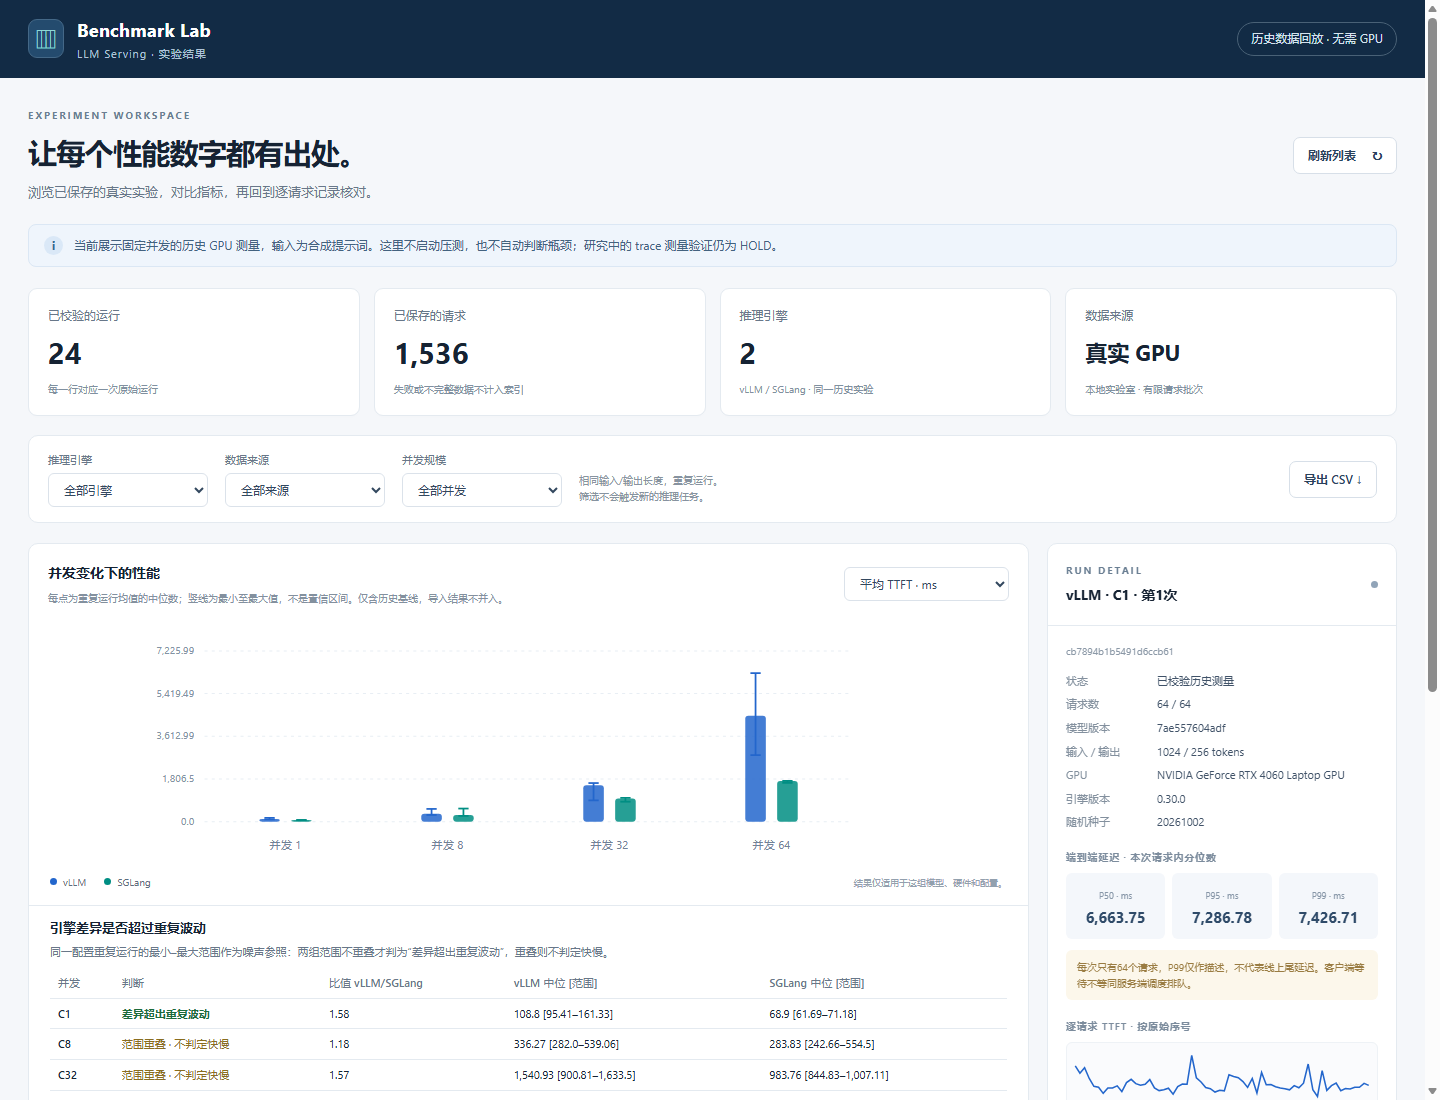
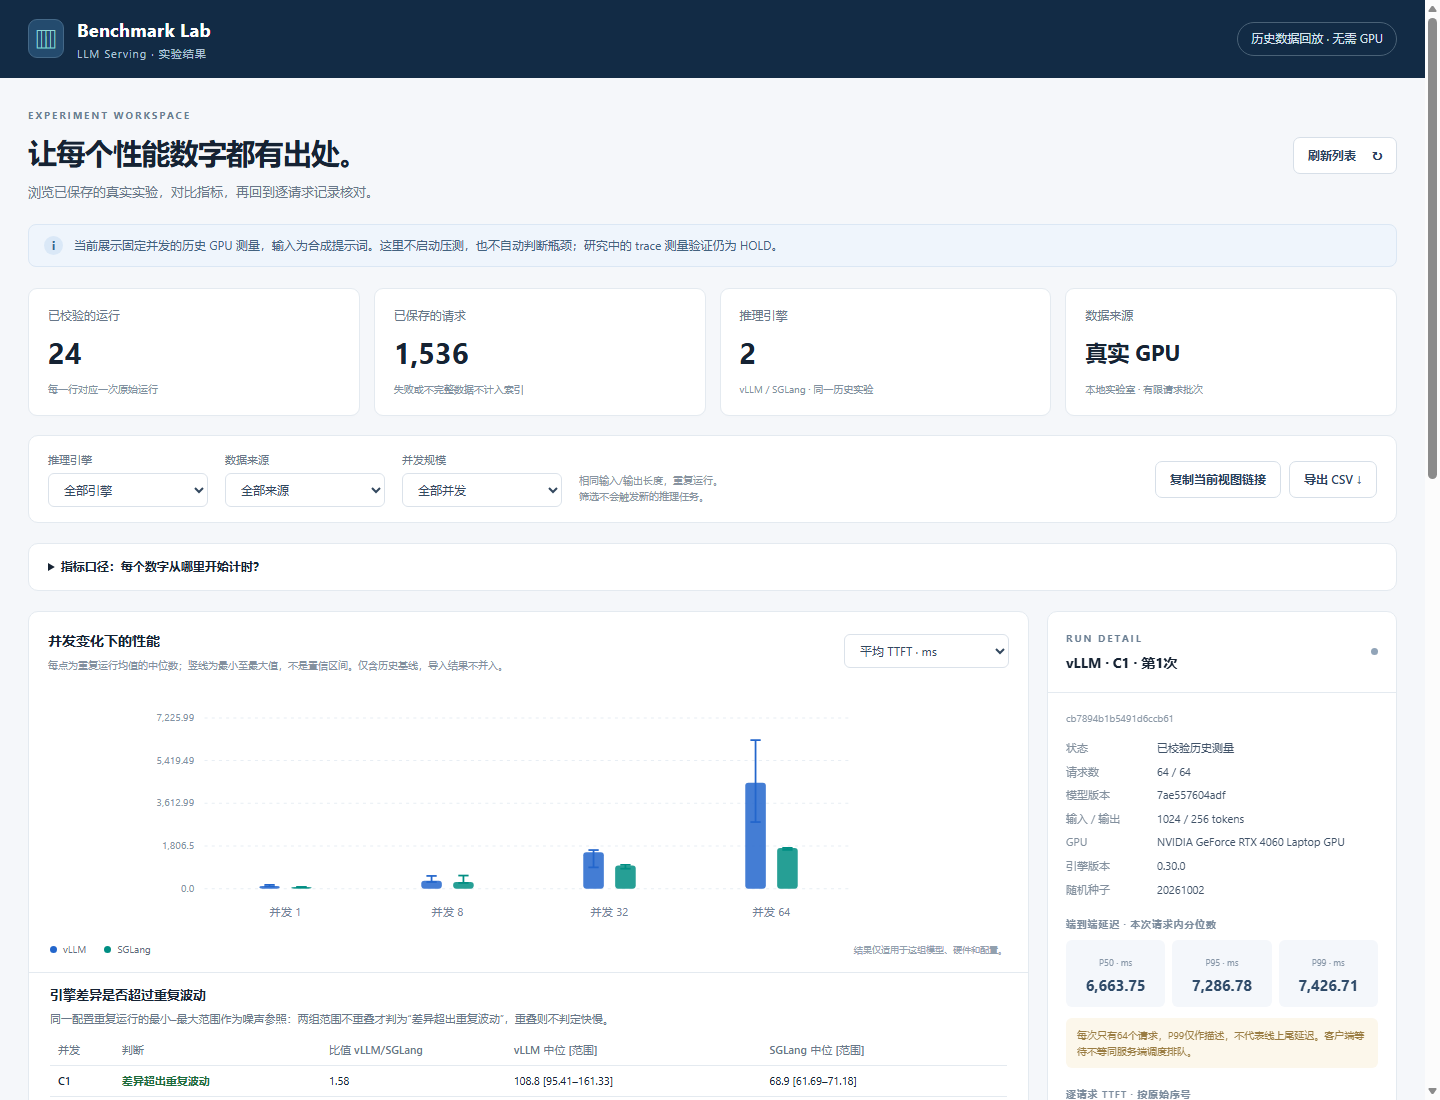
Add request timeline, shareable view links and metric definitions
- Request timeline: every request drawn as client wait (arrival to
  dispatch), wait for first token, and generation, on the vLLM bench
  dispatch clock (start_time = dispatch after the client semaphore;
  ttft/latency from dispatch; client_queue_time = dispatch - arrival,
  per vllm/benchmarks/lib/endpoint_request_func.py and serve.py).
  An in-flight step curve shows peak concurrency against the client
  limit; exceeding it is reported, not hidden. All 24 real runs peak
  exactly at their configured max_concurrency.
- Shareable view: filters, chart metric and selected run are kept in
  the query string; "copy current view link" button.
- Metric definitions panel citing the vLLM source for each metric.

Tests: timeline unit tests (dispatch clock, slot release ordering,
over-limit reporting, rate-limited runs); API asserts timeline fields;
browser E2E 13/13 incl. timeline peak and URL restore. Windows and
WSL: 36 + 6 tests OK, real-data check PASS.

diff --git a/web/app.js b/web/app.js
@@ -55,6 +55,30 @@ function renderTable(){
   }
   $('table-count').textContent=runs.length;
 }
+// Gantt of request phases plus the in-flight step curve; client-side clock only.
+function renderTimeline(r){
+  const panel=$('timeline-panel'),rows=r.request_timing;
+  if(!rows||rows[0].dispatch_ms===undefined){panel.hidden=true;return;}
+  panel.hidden=false;$('timeline-title').textContent=runTitle(r);
+  const t=r.timeline,span=t.span_ms||1,W=1000,left=46,right=12,top=8,curveH=64,gap=14,rowH=Math.max(3,Math.min(8,320/rows.length));
+  const H=top+curveH+gap+rows.length*rowH+24,x=v=>left+(W-left-right)*v/span,g=svg('svg',{viewBox:`0 0 ${W} ${H}`,role:'img','aria-label':`${rows.length}个请求的阶段时间线`});
+  const events=rows.flatMap(q=>[[q.dispatch_ms,1],[q.end_ms,-1]]).sort((a,b)=>a[0]-b[0]||a[1]-b[1]);
+  const cap=Math.max(t.peak_in_flight,t.max_concurrency||0,1),y=v=>top+curveH-curveH*v/cap;let n=0,pts=[`${x(0)},${y(0)}`];
+  for(const[time,change]of events){pts.push(`${x(time)},${y(n)}`);n+=change;pts.push(`${x(time)},${y(n)}`);}
+  g.append(svg('line',{x1:left,x2:W-right,y1:y(0),y2:y(0),stroke:'#e8eef4'}));
+  if(t.max_concurrency){g.append(svg('line',{x1:left,x2:W-right,y1:y(t.max_concurrency),y2:y(t.max_concurrency),stroke:'#9aa8b6','stroke-dasharray':'4 4'}));g.append(svg('text',{x:left-6,y:y(t.max_concurrency)+3,'text-anchor':'end',fill:'#8393a5','font-size':10},String(t.max_concurrency)));}
+  g.append(svg('polyline',{points:pts.join(' '),fill:'none',stroke:colors[r.engine],'stroke-width':1.6}));
+  g.append(svg('text',{x:left-6,y:y(0)+3,'text-anchor':'end',fill:'#8393a5','font-size':10},'0'));
+  const ordered=[...rows].sort((a,b)=>a.arrival_ms-b.arrival_ms||a.index-b.index),y0=top+curveH+gap;
+  ordered.forEach((q,i)=>{const row=svg('g'),yy=y0+i*rowH,h=Math.max(1.5,rowH-1);
+    for(const[a,b,c]of[[q.arrival_ms,q.dispatch_ms,'#c9d2dc'],[q.dispatch_ms,q.first_token_ms,'#e0a43a'],[q.first_token_ms,q.end_ms,colors[r.engine]]])
+      if(b>a)row.append(svg('rect',{x:x(a),y:yy,width:Math.max(.5,x(b)-x(a)),height:h,fill:c}));
+    row.append(svg('title',{},`请求 #${q.index+1}：客户端等待 ${fmt(q.client_queue_ms)} ms，首 token ${fmt(q.ttft_ms)} ms，端到端 ${fmt(q.e2e_ms)} ms`));g.append(row);});
+  for(let i=0;i<=4;i++){const v=span*i/4;g.append(svg('text',{x:x(v),y:H-6,'text-anchor':i===0?'start':i===4?'end':'middle',fill:'#8393a5','font-size':10},(v/1000).toFixed(1)+' s'));}
+  $('timeline').replaceChildren(g);
+  const waited=rows.filter(q=>q.client_queue_ms>1).length,maxWait=Math.max(...rows.map(q=>q.client_queue_ms));
+  $('timeline-stats').textContent=`峰值同时在途 ${t.peak_in_flight}`+(t.max_concurrency?` / 客户端上限 ${t.max_concurrency}（${t.within_client_limit?'未超过上限':'超过上限，请检查原始记录'}）`:'')+` · 总时长 ${fmt(span/1000)} s · ${waited} 个请求在客户端等待超过 1 ms（最长 ${fmt(maxWait)} ms）`;
+}
 function kv(parent,pairs){const dl=node('dl',undefined,'kv');for(const [key,value]of pairs)dl.append(node('dt',key),node('dd',value));parent.append(dl);}
 function label(parent,text){parent.append(node('span',text,'detail-label'));}
 function runTitle(r){return r.kind==='imported'?`${names[r.engine]} · C${r.concurrency??'—'} · 导入`:`${names[r.engine]} · C${r.concurrency} · 第${r.repeat+1}次`;}
@@ -76,9 +100,18 @@ async function select(id){
     if(imported){label(target,'导入核对');const list=node('ul',undefined,'check-list');for(const c of r.provenance.checks)list.append(node('li',c));target.append(list);
       for(const l of r.limitations)target.append(node('p',l,'tail-note'));}
     else{const env=r.environment;label(target,'配置与证据');kv(target,[['模型快照',env.model_snapshot],['引擎提交',env.engine_commit.slice(0,12)],['负载', '有限批次 · 立即到达'],['Prefix cache','关闭']]);}
-    const links=node('div',undefined,'download-links');for(const k of Object.keys(r.artifacts)){const a=node('a',artifactTitles[k]||k);a.href=`/api/runs/${encodeURIComponent(id)}/artifacts/${k}`;links.append(a);}target.append(links,node('p','SHA256 · '+r.source_sha256,'hash'));error('');
-  }catch(e){if(sequence!==detailSequence)return;$('detail').replaceChildren(node('p','无法核对这条记录的原始文件。','muted'));error(e.message);}
+    const links=node('div',undefined,'download-links');for(const k of Object.keys(r.artifacts)){const a=node('a',artifactTitles[k]||k);a.href=`/api/runs/${encodeURIComponent(id)}/artifacts/${k}`;links.append(a);}target.append(links,node('p','SHA256 · '+r.source_sha256,'hash'));renderTimeline(r);syncUrl();error('');
+  }catch(e){if(sequence!==detailSequence)return;$('detail').replaceChildren(node('p','无法核对这条记录的原始文件。','muted'));$('timeline-panel').hidden=true;error(e.message);}
 }
+// Shareable view: filters, metric and the selected run live in the query string.
+function syncUrl(){const q=new URLSearchParams(query());if($('metric').value!=='mean_ttft_ms')q.set('metric',$('metric').value);if(selected)q.set('run',selected);
+  const s=q.toString();history.replaceState(null,'',s?'?'+s:location.pathname);}
+function restoreUrl(){const q=new URLSearchParams(location.search);
+  for(const id of ['engine','concurrency','source','metric']){const v=q.get(id);if(v!==null&&[...$(id).options].some(o=>o.value===v))$(id).value=v;}
+  selected=q.get('run');}
+async function copyLink(){syncUrl();const button=$('copy-link');
+  try{await navigator.clipboard.writeText(location.href);button.textContent='已复制链接 ✓';}catch{button.textContent='请复制地址栏链接';}
+  setTimeout(()=>{button.textContent='复制当前视图链接';},1800);}
 async function refresh(){
   $('refresh').disabled=true;
   try{const data=await get('/api/runs?'+query());runs=data.runs;$('run-count').textContent=data.total;$('request-count').textContent=data.requests.toLocaleString();
@@ -91,8 +124,8 @@ async function refresh(){
     const kinds=new Set(runs.map(r=>r.kind)),mixed=kinds.size>1,onlyImported=kinds.size===1&&kinds.has('imported');
     $('source-word').textContent=mixed?'基线 + 导入':onlyImported?'导入结果':'真实 GPU';
     $('source-note').textContent=mixed||onlyImported?'导入结果的硬件与版本未核实':'本地实验室 · 有限请求批次';$('engine-count').textContent=new Set(runs.map(r=>r.engine)).size;$('export').href='/api/export.csv?'+query();chart();renderTable();error('');
-    if(runs.length)await select(runs.some(r=>r.id===selected)?selected:runs[0].id);else{$('detail').replaceChildren(node('p','没有匹配记录。','muted'));$('detail-title').textContent='选择运行记录';}
+    if(runs.length)await select(runs.some(r=>r.id===selected)?selected:runs[0].id);else{selected=null;$('detail').replaceChildren(node('p','没有匹配记录。','muted'));$('detail-title').textContent='选择运行记录';$('timeline-panel').hidden=true;syncUrl();}
   }catch(e){error(e.message);}finally{$('refresh').disabled=false;}
 }
 for(const id of ['engine','concurrency','source'])$(id).addEventListener('change',refresh);
-$('metric').addEventListener('change',chart);$('refresh').onclick=refresh;refresh();
+$('metric').addEventListener('change',()=>{chart();syncUrl();});$('refresh').onclick=refresh;$('copy-link').onclick=copyLink;restoreUrl();refresh();

diff --git a/web/index.html b/web/index.html
@@ -22,8 +22,19 @@
       <div><label for="source">数据来源</label><select id="source"><option value="">全部来源</option><option value="baseline">历史基线</option><option value="imported">导入结果</option></select></div>
       <div><label for="concurrency">并发规模</label><select id="concurrency"><option value="">全部并发</option><option>1</option><option>8</option><option>32</option><option>64</option></select></div>
       <p class="filter-note">相同输入/输出长度，重复运行。<br>筛选不会触发新的推理任务。</p>
-      <a id="export" class="button secondary" href="/api/export.csv">导出 CSV ↓</a>
+      <div class="filter-actions"><button id="copy-link" class="secondary" type="button">复制当前视图链接</button><a id="export" class="button secondary" href="/api/export.csv">导出 CSV ↓</a></div>
     </section>
+    <details class="panel glossary">
+      <summary>指标口径：每个数字从哪里开始计时？</summary>
+      <dl>
+        <dt>客户端等待</dt><dd>请求到达压测客户端 → 真正发出。包括客户端并发上限的排队和客户端自身逐个发请求的延迟，<strong>不等于</strong>服务端调度排队。</dd>
+        <dt>TTFT</dt><dd>请求发出 → 收到第一个输出 token，不含客户端等待。</dd>
+        <dt>端到端延迟 E2E</dt><dd>请求发出 → 收到最后一个 token。</dd>
+        <dt>TPOT</dt><dd>每个请求 (E2E − TTFT) ÷ (输出 token 数 − 1)，再在请求间取平均。</dd>
+        <dt>输出吞吐</dt><dd>全部输出 token ÷ 整批时长。有限批次包含开始和收尾阶段，不是稳态容量。</dd>
+      </dl>
+      <p>依据：vLLM 源码 <code>vllm/benchmarks/lib/endpoint_request_func.py</code>（计时起点为发出时刻）与 <code>vllm/benchmarks/serve.py</code>（client_queue_time、TPOT 与吞吐的计算）。其他压测工具的定义可能不同，不能直接拿数字比较。</p>
+    </details>
     <div class="workspace">
       <div class="results-column">
         <section class="panel chart-panel">
@@ -42,6 +53,12 @@
         <div id="detail"><p class="muted">加载后可查看配置、延迟分布与原始文件。</p></div>
       </aside>
     </div>
+    <section id="timeline-panel" class="panel timeline-panel" aria-label="单次运行请求时间线" hidden>
+      <div class="panel-head"><div><h2>请求时间线 <span id="timeline-title" class="count"></span></h2><p>每行一个请求，按到达顺序排列。上方曲线是同时在途（已发出、未完成）的请求数，虚线是客户端并发上限。时间来自 vllm bench serve 原始记录，不是服务端调度日志。</p></div></div>
+      <p id="timeline-stats" class="timeline-stats"></p>
+      <div id="timeline" class="timeline"></div>
+      <div class="legend"><span><i class="swatch wait"></i>客户端等待（到达→发出）</span><span><i class="swatch ttft"></i>等待首 token（发出→首 token）</span><span><i class="swatch decode"></i>生成（首 token→完成）</span><small>悬停查看单个请求的数值。</small></div>
+    </section>
     <p id="error" class="error" role="alert" hidden></p>
     <footer>单机受控实验，不代表线上稳态容量。客户端排队 ≠ 服务端调度等待。所有指标按各自测量边界解释。</footer>
   </main>

diff --git a/web/styles.css b/web/styles.css
@@ -2,3 +2,4 @@
 .import-tag{display:inline-block;font-size:10px;border-radius:4px;padding:1px 5px;margin-left:6px;background:#fff3e0;color:#9a5b00;border:1px solid #f3d9b1}.check-list{margin:6px 0 10px;padding-left:18px;font-size:11px;color:var(--muted);line-height:1.6}
 .filters{flex-wrap:wrap}
 .compare-block{border-top:1px solid var(--line);padding:12px 21px 16px}.compare-block h3{font-size:13px;margin:0 0 4px}.compare-block>p{font-size:11px;color:var(--muted);margin:0 0 8px}.compare-table{width:100%;border-collapse:collapse;font-size:11px}.compare-table th,.compare-table td{text-align:left;padding:6px 8px;border-bottom:1px solid var(--line);white-space:nowrap}.compare-table th{color:var(--muted);font-weight:500}#compare{overflow-x:auto}.verdict.separated{color:#1d6b3a;font-weight:600}.verdict.overlap{color:#8a6d1f}.compare-note{font-size:10px;color:#9a7c42}
+.filter-actions{margin-left:auto;display:flex;gap:8px;flex-wrap:wrap}.glossary{margin-bottom:20px;padding:0 19px}.glossary summary{cursor:pointer;padding:13px 0;font-size:12px;font-weight:600;color:var(--ink)}.glossary dl{display:grid;grid-template-columns:96px 1fr;gap:6px 14px;margin:2px 0 10px;font-size:11px}.glossary dt{color:var(--muted)}.glossary dd{margin:0;line-height:1.55}.glossary p{font-size:10px;color:var(--muted);margin:0 0 14px}.glossary code{font-size:10px}.timeline-panel{margin-top:20px}.timeline-stats{margin:0 19px 6px;font-size:11px;color:#46566a}.timeline{padding:0 12px 4px}.timeline svg{width:100%;height:auto;display:block}.swatch{display:inline-block;width:12px;height:8px;border-radius:2px}.swatch.wait{background:#c9d2dc}.swatch.ttft{background:#e0a43a}.swatch.decode{background:var(--blue)}@media(max-width:640px){.glossary dl{grid-template-columns:1fr}.glossary dt{margin-top:6px}}

diff --git a/benchmark_lab/catalog.py b/benchmark_lab/catalog.py
@@ -16,6 +16,29 @@ class EvidenceError(ValueError):
     pass
 
 
+def request_timeline(result, count):
+    """Per-request phases on one clock, following vllm/benchmarks (serve.py, endpoint_request_func.py):
+    start_time = dispatch after the client semaphore, client_queue_time = dispatch - arrival,
+    ttft / latency are measured from dispatch. Offsets are relative to the earliest arrival."""
+    starts, queues = result['start_times'], result['queue_times']
+    origin = min(s - q for s, q in zip(starts, queues))
+    timing = []
+    for i in range(count):
+        dispatch = starts[i] - origin
+        timing.append(dict(index=i, ttft_ms=result['ttfts'][i] * 1000, e2e_ms=result['latencies'][i] * 1000,
+            client_queue_ms=queues[i] * 1000, arrival_ms=(dispatch - queues[i]) * 1000, dispatch_ms=dispatch * 1000,
+            first_token_ms=(dispatch + result['ttfts'][i]) * 1000, end_ms=(dispatch + result['latencies'][i]) * 1000))
+    # Half-open [dispatch, end): at equal timestamps a completion frees its slot first.
+    events = sorted([(t['dispatch_ms'], 1) for t in timing] + [(t['end_ms'], -1) for t in timing])
+    in_flight = peak = 0
+    for _, change in events:
+        in_flight += change
+        peak = max(peak, in_flight)
+    limit = result.get('max_concurrency')
+    return timing, dict(peak_in_flight=peak, max_concurrency=limit, span_ms=max(t['end_ms'] for t in timing),
+        within_client_limit=None if limit is None else peak <= limit)
+
+
 class Catalog:
     def __init__(self, root, database):
         self.root = Path(root).resolve()
@@ -163,16 +186,15 @@ class Catalog:
         result = self.load(row['source'])
         provenance = self.load(row['artifacts']['provenance'])
         count = result['completed']
-        timing = None
+        timing = timeline = None
         if row['detail_level'] == 'detailed':
             tails = summarize(result, count)['tails_ms']
-            timing = [dict(index=i, ttft_ms=result['ttfts'][i]*1000, e2e_ms=result['latencies'][i]*1000,
-                client_queue_ms=result['queue_times'][i]*1000) for i in range(count)]
+            timing, timeline = request_timeline(result, count)
         else:
             tails = dict(latencies={str(p): percentile(result['latencies'], p) * 1000 for p in (50, 95, 99)})
         limitations = list(provenance.get('limitations', []))
         limitations.append(f'{count} requests: P99 is descriptive, not production tail reliability.')
-        row.update(tails=tails, request_timing=timing, provenance=dict(
+        row.update(tails=tails, request_timing=timing, timeline=timeline, provenance=dict(
             source_name=provenance['source_name'], imported_utc=provenance['imported_utc'],
             checks=provenance['checks'], reported=provenance['reported']), limitations=limitations)
         return row
@@ -186,16 +208,15 @@ class Catalog:
         count = metadata['config']['num_prompts']
         tail = summarize(result, count)
         config = metadata['config']
-        row.update(tails=tail['tails_ms'], environment=dict(
+        timing, timeline = request_timeline(result, count)
+        row.update(tails=tail['tails_ms'], timeline=timeline, environment=dict(
             engine_commit=metadata['engine_commit'],
             engine_version=metadata['environment'].get('engine'),
             gpu=metadata['gpu']['name'], gpu_memory_mib=metadata['gpu']['memory.total'],
             model_snapshot=config['model_snapshot'], model_revision=config['model_revision'],
             seed=config['seed'], input_tokens=1024, output_tokens=256,
             arrival='infinite-rate finite batch', prefix_cache=False),
-            request_timing=[dict(index=i,ttft_ms=result['ttfts'][i]*1000,
-                e2e_ms=result['latencies'][i]*1000,client_queue_ms=result['queue_times'][i]*1000)
-                for i in range(count)],
+            request_timing=timing,
             limitations=tail.get('limitations', [
                 '64 requests per run: P99 is descriptive, not production tail reliability.',
                 'Client queue time is not engine scheduler waiting time.',

diff --git a/tests/test_timeline.py b/tests/test_timeline.py
@@ -1,0 +1,32 @@
+import unittest
+
+from benchmark_lab.catalog import request_timeline
+
+
+def result(starts, queues, ttfts, latencies, limit):
+    return dict(start_times=starts, queue_times=queues, ttfts=ttfts, latencies=latencies, max_concurrency=limit)
+
+
+class TimelineTests(unittest.TestCase):
+    def test_offsets_follow_vllm_dispatch_clock(self):
+        # Request 1 arrives with request 0 but waits 2 s for the single client slot.
+        timing, summary = request_timeline(result([100.0, 102.0], [0.0, 2.0], [0.5, 0.25], [2.0, 1.0], 1), 2)
+        second = timing[1]
+        self.assertEqual((second['arrival_ms'], second['dispatch_ms']), (0.0, 2000.0))
+        self.assertEqual((second['first_token_ms'], second['end_ms']), (2250.0, 3000.0))
+        self.assertEqual(summary, dict(peak_in_flight=1, max_concurrency=1, span_ms=3000.0, within_client_limit=True))
+
+    def test_completion_frees_slot_before_next_dispatch_at_same_instant(self):
+        _, summary = request_timeline(result([0.0, 1.0], [0.0, 1.0], [0.1, 0.1], [1.0, 1.0], 1), 2)
+        self.assertEqual(summary['peak_in_flight'], 1)
+
+    def test_overlap_beyond_limit_is_reported_not_hidden(self):
+        _, summary = request_timeline(result([0.0, 0.5], [0.0, 0.0], [0.1, 0.1], [1.0, 1.0], 1), 2)
+        self.assertEqual((summary['peak_in_flight'], summary['within_client_limit']), (2, False))
+
+    def test_rate_limited_run_without_concurrency_cap(self):
+        _, summary = request_timeline(result([0.0, 0.5], [0.0, 0.0], [0.1, 0.1], [1.0, 1.0], None), 2)
+        self.assertIsNone(summary['within_client_limit'])
+
+
+if __name__ == '__main__': unittest.main()

diff --git a/web_tests/test_api.py b/web_tests/test_api.py
@@ -25,6 +25,9 @@ class ApiTests(unittest.TestCase):
         detail=self.client.get('/api/runs/'+listing['runs'][0]['id']).json()
         self.assertEqual(detail['request_timing'][0]['ttft_ms'],100)
         self.assertEqual(detail['tails']['latencies']['99'],1990)
+        # Fixture requests overlap while max_concurrency is 1: reported, never hidden.
+        self.assertEqual((detail['timeline']['peak_in_flight'],detail['timeline']['within_client_limit']),(2,False))
+        self.assertAlmostEqual(detail['request_timing'][1]['dispatch_ms'],100)
 
     def test_filters_and_csv_match(self):
         response=self.client.get('/api/export.csv?engine=vllm&concurrency=1')

diff --git a/docs/LOCAL_DEMO.md b/docs/LOCAL_DEMO.md
@@ -26,7 +26,9 @@ python -m benchmark_lab
 3. 切换TTFT、TPOT和吞吐图表。每根柱是重复均值的中位数，竖线是最小/最大值，不是置信区间。
    - 图表下方的“引擎差异是否超过重复波动”表，把同一配置3次重复的最小–最大范围当作噪声参照（A/A 式）：两组范围不重叠才判为“差异超出重复波动”。真实数据中，C32 的平均 TTFT 比值为 1.57，但两组范围重叠（vLLM 900.81–1633.50 ms，SGLang 844.83–1007.11 ms），因此不判定快慢；C64 的范围完全分开。只比平均值会把前者也说成“慢 57%”。这是3次重复下的描述性判断，不是显著性检验。
 4. 选择某一次运行，查看该次64请求的P50/P95/P99和TTFT序列。P99只作描述，不宣称线上尾延迟可靠。
-5. 下载原始JSON、原校验记录和配置；导出与当前筛选一致的CSV。
+   - 页面下方的“请求时间线”把每个请求画成三段：客户端等待（到达→发出）、等待首 token、生成，上方曲线是同时在途请求数，虚线是客户端并发上限。计时依据 `vllm/benchmarks/lib/endpoint_request_func.py`：`start_time` 是请求发出时刻，TTFT 和 E2E 从发出算起，`client_queue_time` 等于发出时刻减到达时刻。例如 vLLM C32 第1次：前32个请求立即发出，后32个在客户端最多等了约15.4 s 才进入；TTFT 不含这段等待。24次真实运行的峰值在途数都等于配置的上限。C64 时上限等于请求数，仍有62个请求在客户端等待超过1 ms（例如 vLLM C64 第1次最长约26 ms），说明客户端逐个发请求本身也有延迟。
+   - “指标口径”折叠面板写明每个指标从哪里开始计时、以及对应的源码位置；其他工具的定义可能不同，不能直接拿数字比较。
+5. 下载原始JSON、原校验记录和配置；导出与当前筛选一致的CSV。“复制当前视图链接”会把筛选、图表指标和所选运行写进网址，导师打开同一链接即可看到同一视图。
 
 图表不会启动模型或调用GPU；页面不生成根因诊断。研究测量HOLD和工程展示可用分别验收。
 

diff --git a/README.md b/README.md
@@ -43,7 +43,7 @@ python -m pip install -r web-requirements.txt
 python -m benchmark_lab
 ```
 
-浏览器打开 `http://127.0.0.1:8765`，可筛选引擎/并发、查看单次运行的P50/P95/P99与请求序列、下载原始文件及CSV。引擎对比只在差异超出同配置重复运行的范围时才给出判断，范围重叠时明确“不判定快慢”。Windows也可运行 `scripts/start-demo.ps1` 自动准备隔离的Web环境。页面读取现有历史结果，不下载模型、不发起推理。
+浏览器打开 `http://127.0.0.1:8765`，可筛选引擎/并发、查看单次运行的P50/P95/P99与请求序列、下载原始文件及CSV。引擎对比只在差异超出同配置重复运行的范围时才给出判断，范围重叠时明确“不判定快慢”。单次运行可展开请求时间线（客户端等待 / 等待首 token / 生成三段，加同时在途请求数），页面附指标口径说明，当前视图可复制为链接分享。Windows也可运行 `scripts/start-demo.ps1` 自动准备隔离的Web环境。页面读取现有历史结果，不下载模型、不发起推理。
 
 自己用 `vllm bench serve --save-result --save-detailed` 跑出的结果，可以用 `python -m benchmark_lab import-vllm <文件> --engine vllm` 导入：原文件按字节保存并登记哈希，逐请求重算核对上报的 TTFT 汇总，失败、不完整或数值不一致的结果会被拒绝。详见[本地演示](docs/LOCAL_DEMO.md)。
 
